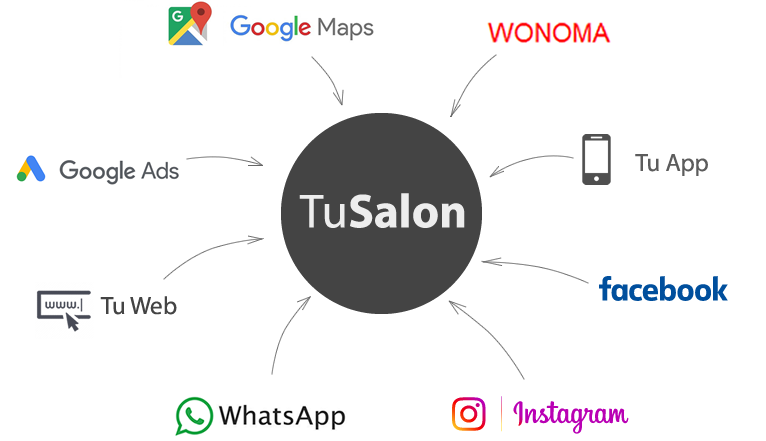
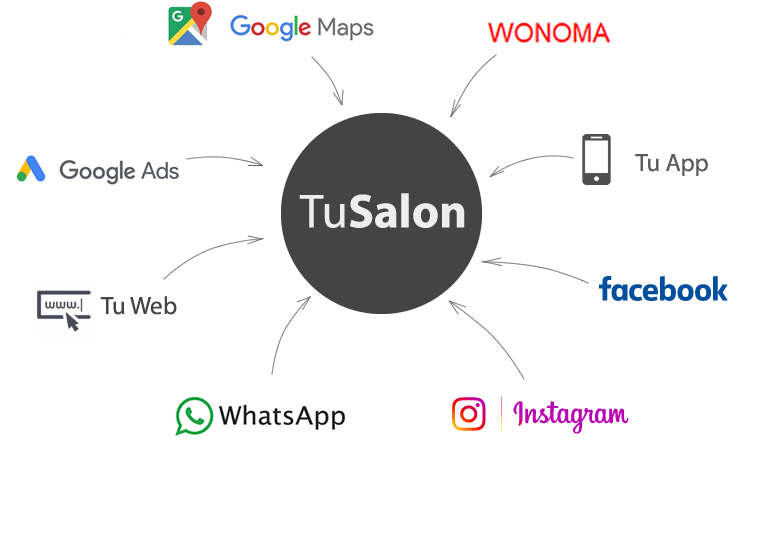
correccion posicion imagenes

diff --git a/wonomafolder/index.html b/wonomafolder/index.html
@@ -93,7 +93,7 @@
             </div>
         </div>
         <div class="col-md-6">
-            <img class="im2" src="img/img3.png">
+            <img class="imagen" src="img/img3.png">
         </div>
     </div>
 </section>
@@ -106,7 +106,7 @@
 	<div class="row">
         <div class="col-md-6 text-center margintitle ">
             <div>
-                <img class="im3" src="img/img4.png">
+                <img class="imagen" src="img/img4.png">
             </div>
         </div>
         <div class="col-md-6 margintitle alineado-derecho">
@@ -191,7 +191,7 @@
 
         </div>
         <div class="col-md-6 text-center">
-            <img class="im4" src="img/img5.png">
+            <img class="imagen" src="img/img5.png">
         </div>
     </div>
 </section>
@@ -208,7 +208,7 @@
         <div class="col-md-6 text-center ">
             <div class="cont-imgbtn">
                     <div style="margin-top: 2em">
-                        <img class="im5" src="img/img6.png">
+                        <img class="imagen" src="img/img6.png">
                     </div>
             </div>
         </div>

diff --git a/wonomafolder/css/style.css b/wonomafolder/css/style.css
@@ -311,10 +311,6 @@ margin-bottom: 5vh;
         font-size: 0.8rem !important;
     }
 
-    .im2,.im3,.im4{
-        height: 30vw;
-        
-    }
     .im5{
         height: 40vw;
     }
@@ -347,6 +343,11 @@ margin-bottom: 5vh;
         background-size: cover;
     }
 
+}
+
+.imagen{
+    width: 100%;
+    
 }
 
 #seccionTwo{
